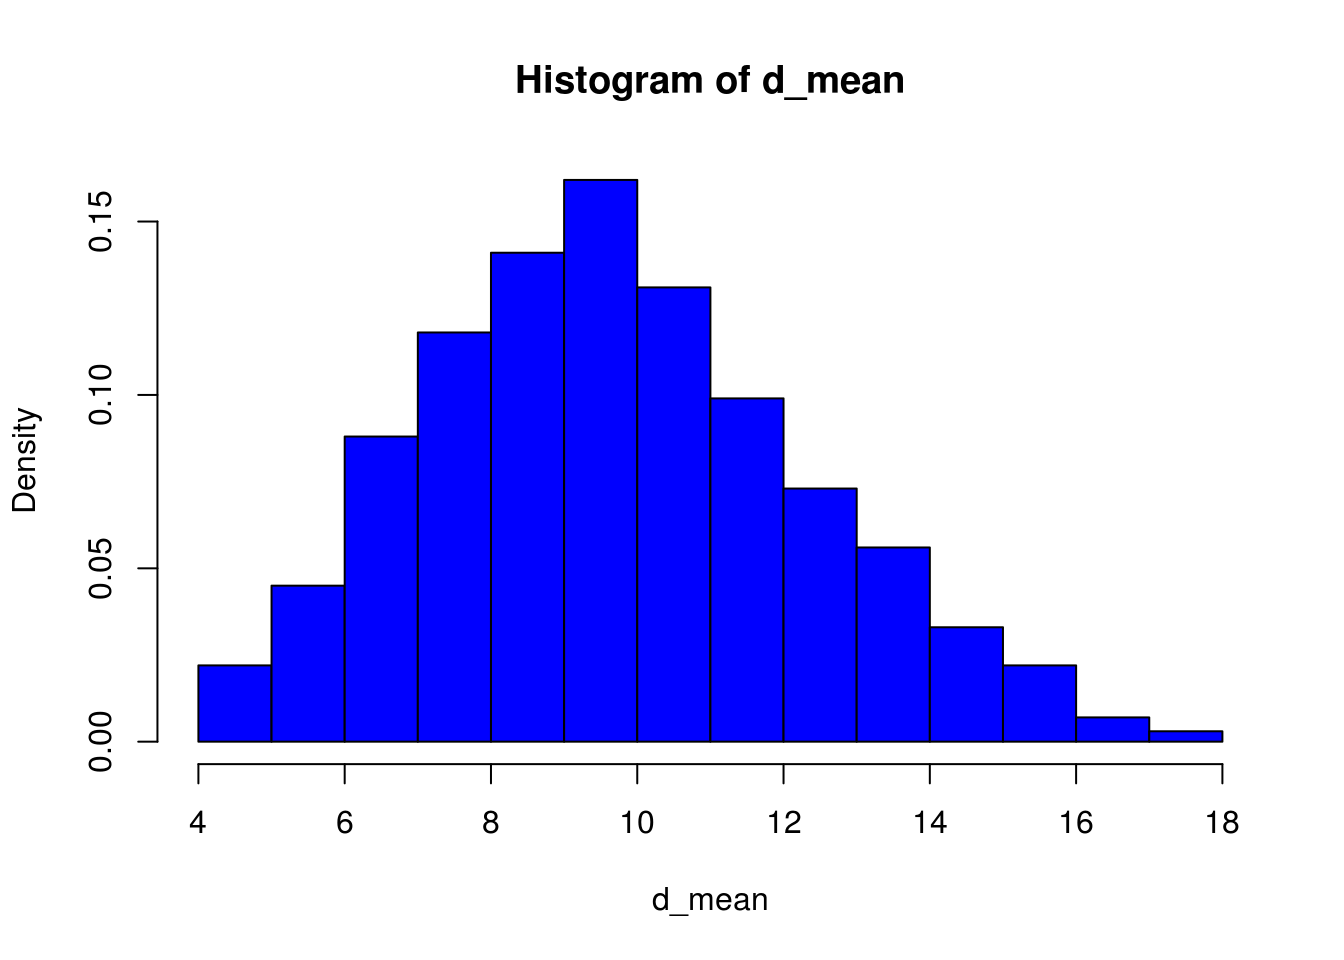
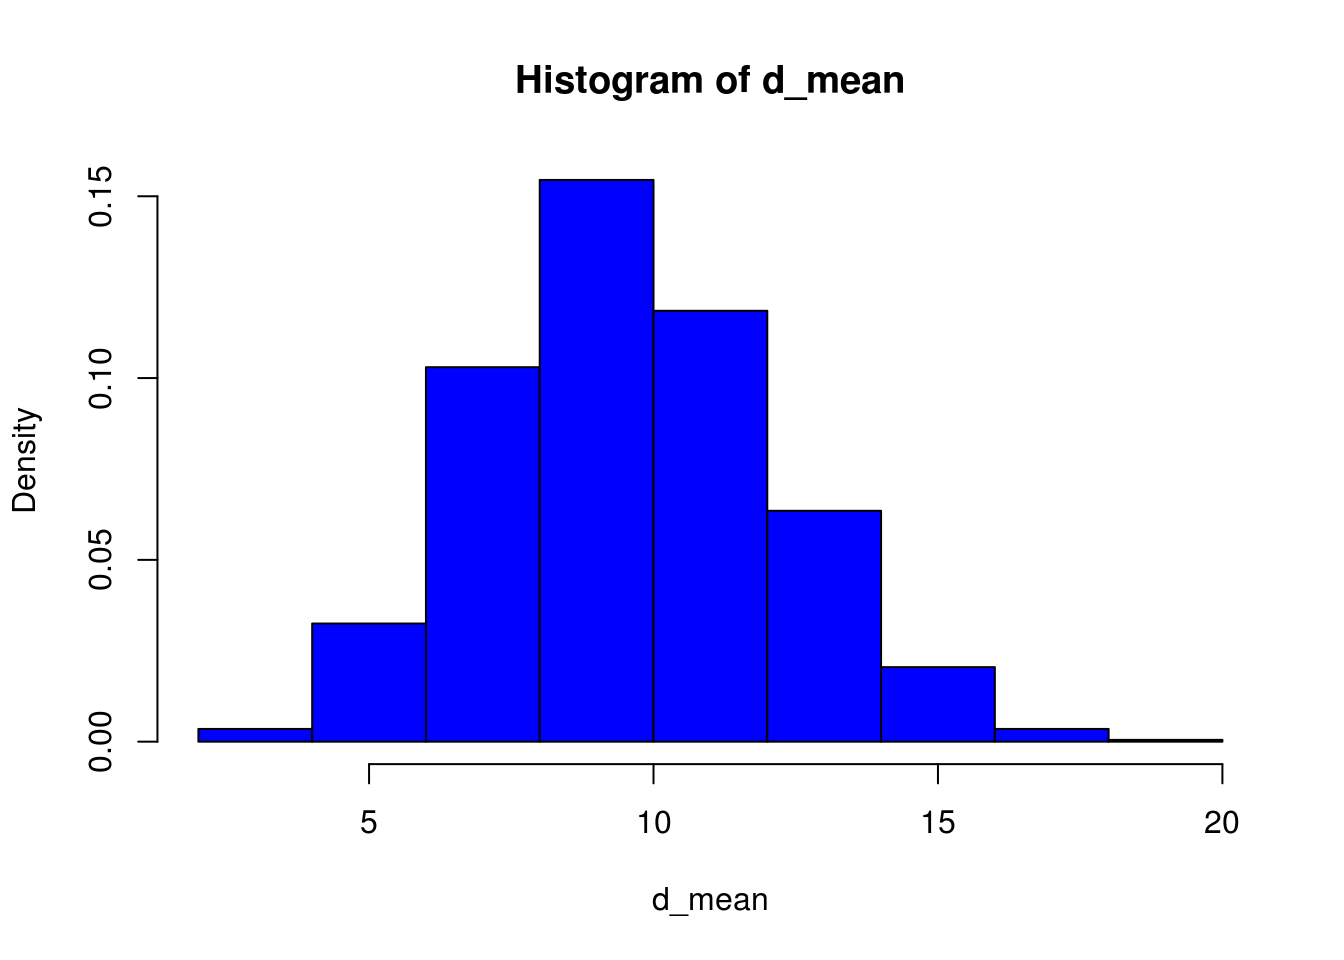
Go!

diff --git a/d_muestral.html b/d_muestral.html
@@ -209,6 +209,7 @@ $(document).ready(function () {
 <div id="TOC">
 <ul>
 <li><a href="#distribuciones-muestrales">Distribuciones Muestrales</a><ul>
+<li><a href="#notacion">Notación</a></li>
 <li><a href="#distribucion-de-la-media-muestral-cuando-la-poblacion-es-normal">Distribución de la media muestral cuando la población es normal</a></li>
 <li><a href="#el-teorema-del-limite-central">El Teorema del Límite Central</a></li>
 <li><a href="#distribucion-de-la-proporcion-muestral">Distribución de la Proporción Muestral</a></li>
@@ -219,6 +220,18 @@ $(document).ready(function () {
 <div id="distribuciones-muestrales" class="section level2">
 <h2>Distribuciones Muestrales</h2>
 <p>Uno de los objetivos de la estadística es saber acerca del comportamiento de parámetros poblacionales tales como: la media <span class="math inline">\(\mu\)</span>, la varianza <span class="math inline">\(\sigma^2\)</span> o la proporción <span class="math inline">\(p\)</span>. Se extrae una muestra aleatoria de la población y se calcula el valor de un estadístico correspondiente, por ejemplo, la media muestral <span class="math inline">\(\bar{X}\)</span>, la varianza muestral <span class="math inline">\(S^2\)</span> o la proporción muestral <span class="math inline">\(\hat{p}\)</span>. El valor del estadístico es aleatorio porque depende de los elementos elegidos en la muestra seleccionada y, por lo tanto, el estadístico tiene una distribución de probabilidad la cual es llamada la <strong>Distribución Muestral del Estadístico</strong>.</p>
+<div id="notacion" class="section level3">
+<h3>Notación</h3>
+<p><strong>Parametros</strong>:</p>
+<p>Para la media poblacional se usa la letra <span class="math inline">\(\mu\)</span>.</p>
+<p>Para la varianza poblacional se usa la letra <span class="math inline">\(\sigma^2\)</span>.</p>
+<p>Para la varianza poblacional se usa la letra <span class="math inline">\(\sigma\)</span>.</p>
+<p><strong>Estadísticos</strong>:</p>
+<p>Si <span class="math inline">\(X\)</span> es una variable aleatoria, entonces:</p>
+<p>Para la media muestral se usa <span class="math inline">\(\bar{X}\)</span>.</p>
+<p>Para la varianza muestral se usa la letra <span class="math inline">\(S^2\)</span>.</p>
+<p>Para la varianza poblacional se usa la letra <span class="math inline">\(S\)</span>.</p>
+</div>
 <div id="distribucion-de-la-media-muestral-cuando-la-poblacion-es-normal" class="section level3">
 <h3>Distribución de la media muestral cuando la población es normal</h3>
 <p>Suponga que su objeto de estudio es una población normal y de donde se extraen muestras aleatorias de tamaño <span class="math inline">\(n\)</span> de una población infinita con media poblacional <span class="math inline">\(\mu\)</span> y varianza <span class="math inline">\(\sigma^2\)</span></p>
@@ -232,7 +245,8 @@ $(document).ready(function () {
 <h3>El Teorema del Límite Central</h3>
 <p>De una población infinita con media y varianza se extraen muestras aleatorias de tamaño <span class="math inline">\(n\)</span>, entonces la media muestral <span class="math inline">\(\bar{X}\)</span> se comporta aproximadamente como una variable aleatoria normal con media igual a la media poblacional <span class="math inline">\(\mu\)</span> y con desviación estándar <span class="math inline">\(\sigma\)</span> igual a la desviación poblacional dividida por la raíz cuadrada del tamaño de la muestra, siempre que sea grande. Esto es:</p>
 <p><span class="math display">\[\bar{X} \sim Normal(\mu,\frac{\sigma}{\sqrt{n}})\]</span></p>
-<p>Estandarizando, donde <span class="math inline">\(Z = \dfrac{\bar{X}-\mu}{\dfrac{\sigma}{\sqrt{n}}}\)</span></p>
+<p>Estandarizando, donde</p>
+<p><span class="math display">\[Z = \dfrac{\bar{X}-\mu}{\dfrac{\sigma}{\sqrt{n}}}\]</span></p>
 <p>tenemos:</p>
 <p><span class="math display">\[Z \sim Normal(0,1)\]</span></p>
 <blockquote>
@@ -260,16 +274,16 @@ for (i in 1:30){
 }
 #d_mean
 mean(d_mean)</code></pre>
-<pre><code>## [1] 9.225</code></pre>
+<pre><code>## [1] 9.908333</code></pre>
 <pre class="r"><code>sd(d_mean)</code></pre>
-<pre><code>## [1] 2.084787</code></pre>
+<pre><code>## [1] 2.563406</code></pre>
 <ol start="3" style="list-style-type: decimal">
 <li>Tercero, calculamos las medias de todas esas muestras y tratamos de ver gráficamente mediante un histograma al menos si hay acercamiento a Normalidad.</li>
 </ol>
 <pre class="r"><code>mean(d_mean)</code></pre>
-<pre><code>## [1] 9.225</code></pre>
+<pre><code>## [1] 9.908333</code></pre>
 <pre class="r"><code>sd(d_mean)</code></pre>
-<pre><code>## [1] 2.084787</code></pre>
+<pre><code>## [1] 2.563406</code></pre>
 <p>Interpretación: Notar que la media de las medias muestrales es <span class="math inline">\(\mu_{\bar{X}}=10.075\)</span> que está bien cerca de la media poblacional . Además la desviación estándar de la media muestral es 2.806 mientras que <span class="math inline">\(\sigma/\sqrt{n}=5.418/2=2.709\)</span>. Ambos valores también están relativamente cerca. El histograma si está un poco alejado de la normalidad. Si se incrementa el tamaño de las muestras se puede notar una mejor aproximación a la Normal.</p>
 <pre class="r"><code>hist(d_mean,col = &quot;blue&quot;,freq = F)</code></pre>
 <p><img src="d_muestral_files/figure-html/unnamed-chunk-4-1.png" width="672" /></p>
